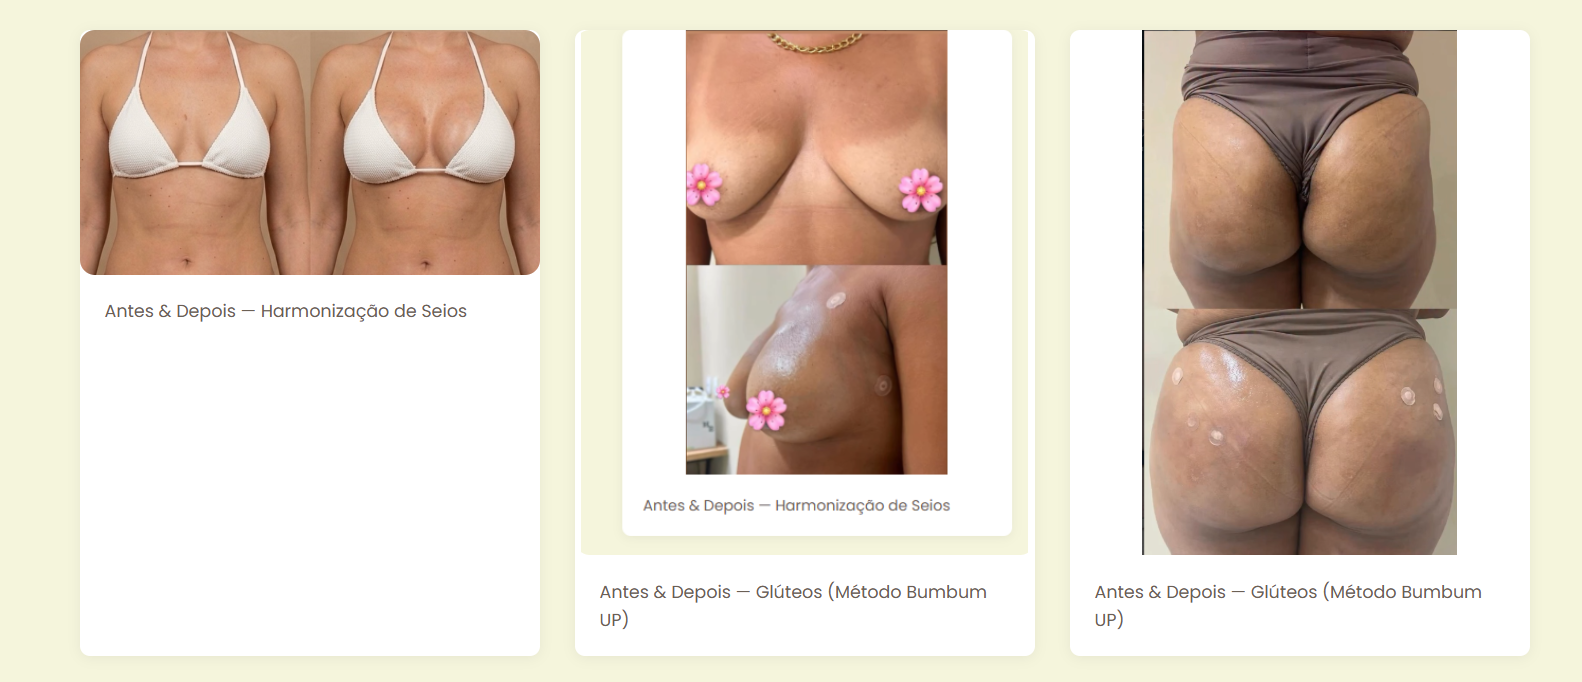
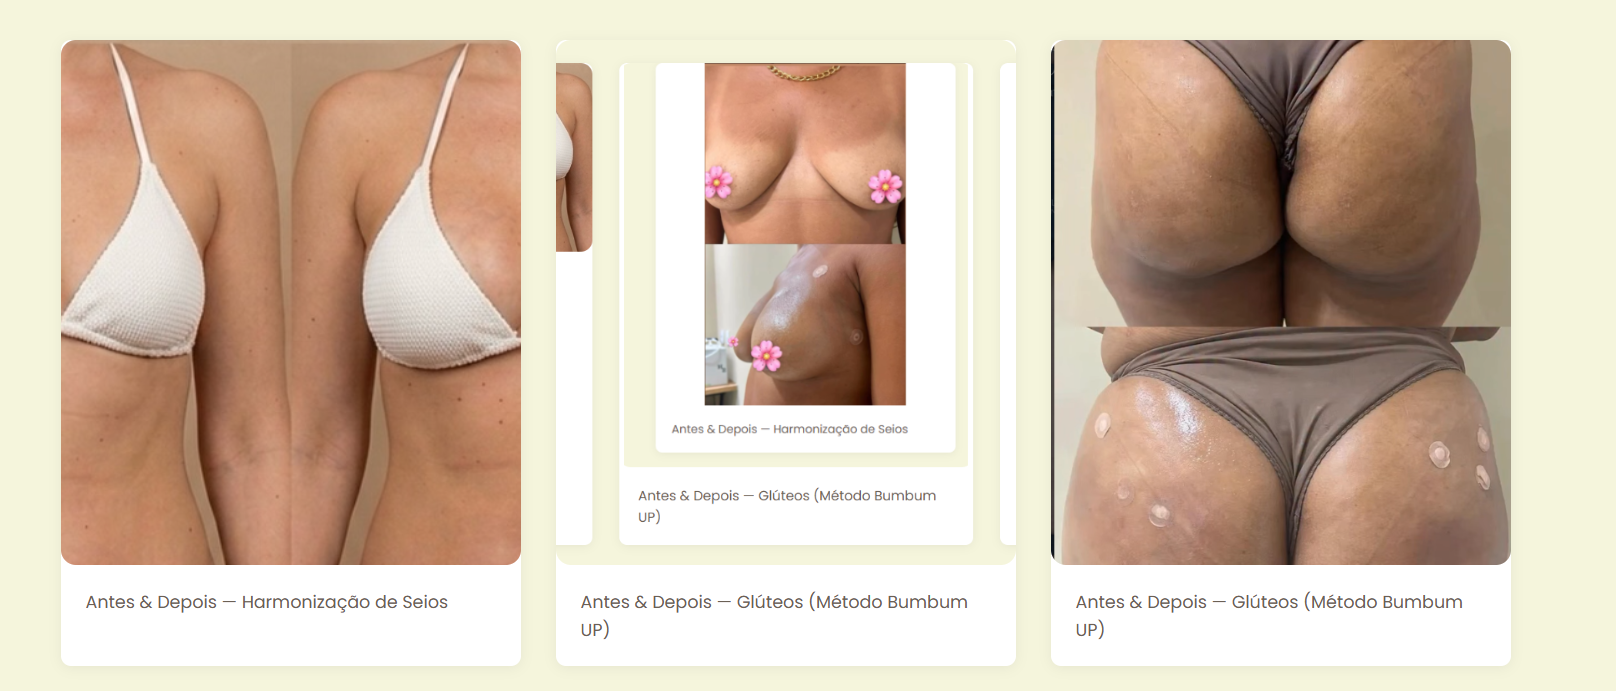
Refinamento via Nevion Hub: Arrume as imagens para serem melhor visualizadas

diff --git a/index.html b/index.html
@@ -382,7 +382,7 @@
       </div>
       <div class="item-galeria reveal">
         <div class="moldura-imagem">
-          <img src="./assets/imagens-refinamento/1-image.png" alt="Antes e depois - Glúteos, Método Bumbum UP">
+          <img src="./assets/imagens/antes-depois-gluteos-1.png" alt="Antes e depois - Glúteos, Método Bumbum UP">
         </div>
         <div class="legenda">Antes &amp; Depois — Glúteos (Método Bumbum UP)</div>
       </div>
